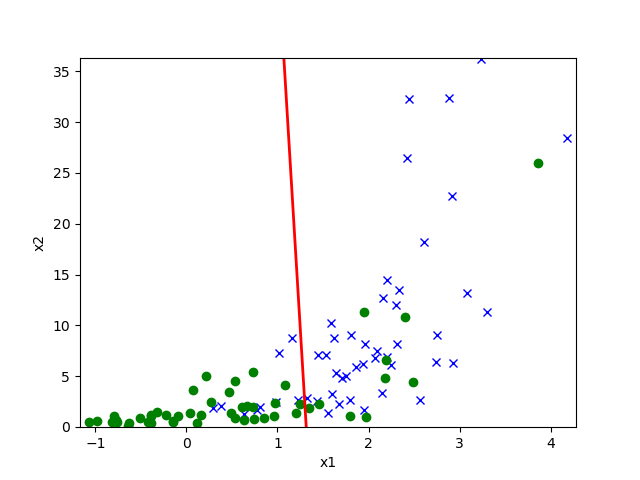
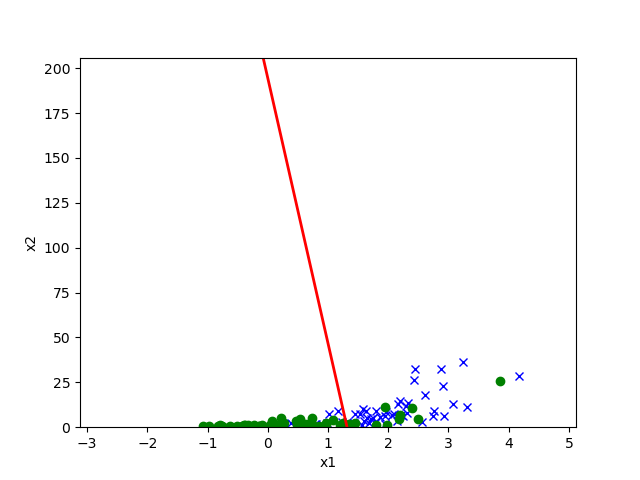
Add more visualisations

diff --git a/ps1/src/linearclass/logreg.py b/ps1/src/linearclass/logreg.py
@@ -9,18 +9,31 @@ def main(train_path, valid_path, save_path):
         valid_path: Path to CSV file containing dataset for validation.
         save_path: Path to save predicted probabilities using np.savetxt().
     """
-    print(f'******* {train_path}')
     x_train, y_train = util.load_dataset(train_path, add_intercept=True)
     x_valid, y_valid = util.load_dataset(valid_path, add_intercept=True)
 
-    util.plot(x_train, y_train, None, f'{train_path}.png')
+    xlim, ylim = util.get_lim(x_train, x_valid)
+
+    util.plot(x_train, y_train, None, f'{train_path}.png', xlim, ylim)
+    util.plot(x_train[y_train == 0], y_train[y_train == 0], None, f'{train_path}_0.png', xlim, ylim)
+    util.plot(x_train[y_train == 1], y_train[y_train == 1], None, f'{train_path}_1.png', xlim, ylim)
+    util.plot(x_valid[y_valid == 0], y_valid[y_valid == 0], None, f'{valid_path}_0.png', xlim, ylim)
+    util.plot(x_valid[y_valid == 1], y_valid[y_valid == 1], None, f'{valid_path}_1.png', xlim, ylim)
 
     # Train a logistic regression classifier
-    lr = LogisticRegression()
+    lr = LogisticRegression(verbose=False)
     lr.fit(x_train, y_train)
 
     # Plot decision boundary on top of validation set set
-    util.plot(x_valid, y_valid, lr.theta, f'logreg_{valid_path}.png')
+    util.plot(x_valid, y_valid, lr.theta, f'logreg_{valid_path}.png', xlim, ylim)
+
+    pred_train = lr.predict(x_train)
+    loss_train = util.loss(pred_train, y_train)
+    print(f'Loss for {train_path}: {loss_train:.5f}')
+
+    pred_valid = lr.predict(x_valid)
+    loss_valid = util.loss(pred_valid, y_valid)
+    print(f'Loss for {valid_path}: {loss_valid:.5f}')
 
     # Use np.savetxt to save predictions on eval set to save_path
     np.savetxt(save_path, lr.predict(x_valid))
@@ -75,12 +88,12 @@ class LogisticRegression:
             util.print_matrix(delta, 'delta')
             norm = np.linalg.norm(delta, 1)
             if self.verbose:
-                pred_smoothed = pred - (pred == 1) * 1e-10
-                loss = -1/n * (y @ np.log(pred_smoothed) + (1 - y) @ np.log(1 - pred_smoothed))
+                loss = util.loss(pred, y)
                 print(f'epoch {i}: loss {loss:.5f} delta {norm:.5f}')
             self.theta = self.theta - delta
             if norm < self.eps:
                 return
+
 
     def predict(self, x):
         """Return predicted probabilities given new inputs x.

diff --git a/ps1/src/linearclass/util.py b/ps1/src/linearclass/util.py
@@ -63,7 +63,7 @@ def load_dataset(csv_path, label_col='y', add_intercept=False):
     return inputs, labels
 
 
-def plot(x, y, theta, save_path, correction=1.0):
+def plot(x, y, theta, save_path, xlim=None, ylim=None, correction=1.0):
     """Plot dataset and fitted logistic regression parameters.
 
     Args:
@@ -73,7 +73,6 @@ def plot(x, y, theta, save_path, correction=1.0):
         save_path: Path to save the plot.
         correction: Correction factor to apply, if any.
     """
-    print(f'Plotting {save_path}')
     # Plot dataset
     plt.figure()
     plt.plot(x[y == 1, -2], x[y == 1, -1], 'bx', linewidth=2)
@@ -85,13 +84,24 @@ def plot(x, y, theta, save_path, correction=1.0):
         x2 = -(theta[0] / theta[2] + theta[1] / theta[2] * x1
             + np.log((2 - correction) / correction) / theta[2])
         plt.plot(x1, x2, c='red', linewidth=2)
-    plt.xlim(x[:, -2].min()-.1, x[:, -2].max()+.1)
-    plt.ylim(x[:, -1].min()-.1, x[:, -1].max()+.1)
+    if xlim is None:
+        xlim = (x[:, -2].min()-.1, x[:, -2].max()+.1)
+    if ylim is None:
+        ylim = (x[:, -1].min()-.1, x[:, -1].max()+.1)
+    plt.xlim(xlim)
+    plt.ylim(ylim)
 
     # Add labels and save to disk
     plt.xlabel('x1')
     plt.ylabel('x2')
     plt.savefig(save_path)
+
+
+def get_lim(*args):
+    x = np.concatenate(args)
+    xlim = (x[:, -2].min()-.1, x[:, -2].max()+.1)
+    ylim = (x[:, -1].min()-.1, x[:, -1].max()+.1)
+    return xlim, ylim
 
 
 def print_matrix(m, name):
@@ -101,3 +111,10 @@ def print_matrix(m, name):
 
 def sigmoid(x):
     return 1. / (1. + np.exp(-x))
+
+
+def loss(pred, y):
+    n, = y.shape
+    pred_smoothed = pred - (pred == 1) * 1e-10
+    loss = -1/n * (y @ np.log(pred_smoothed) + (1 - y) @ np.log(1 - pred_smoothed))
+    return loss

diff --git a/ps1/src/linearclass/gda.py b/ps1/src/linearclass/gda.py
@@ -15,16 +15,25 @@ def main(train_path, valid_path, save_path):
     x_valid, y_valid = util.load_dataset(valid_path, add_intercept=False)
     x_valid_int, _ = util.load_dataset(valid_path, add_intercept=True)
 
+    xlim, ylim = util.get_lim(x_train, x_valid)
+
     # *** START CODE HERE ***
     # Train a GDA classifier
     gda = GDA()
     gda.fit(x_train, y_train)
 
     # Plot decision boundary on validation set
-    util.plot(x_valid_int, y_valid, gda.theta, f'gda_{valid_path}.png')
+    util.plot(x_valid_int, y_valid, gda.theta, f'gda_{valid_path}.png', xlim, ylim)
 
     # Use np.savetxt to save outputs from validation set to save_path
-    np.savetxt(save_path, gda.predict(x_valid))
+    pred_train = gda.predict(x_train)
+    loss_train = util.loss(pred_train, y_train)
+    print(f'Loss for {train_path}: {loss_train:.5f}')
+
+    pred_valid = gda.predict(x_valid)
+    loss = util.loss(pred_valid, y_valid)
+    print(f'Loss for {valid_path}: {loss:.5f}')
+    np.savetxt(save_path, pred_valid)
     # *** END CODE HERE ***
 
 
